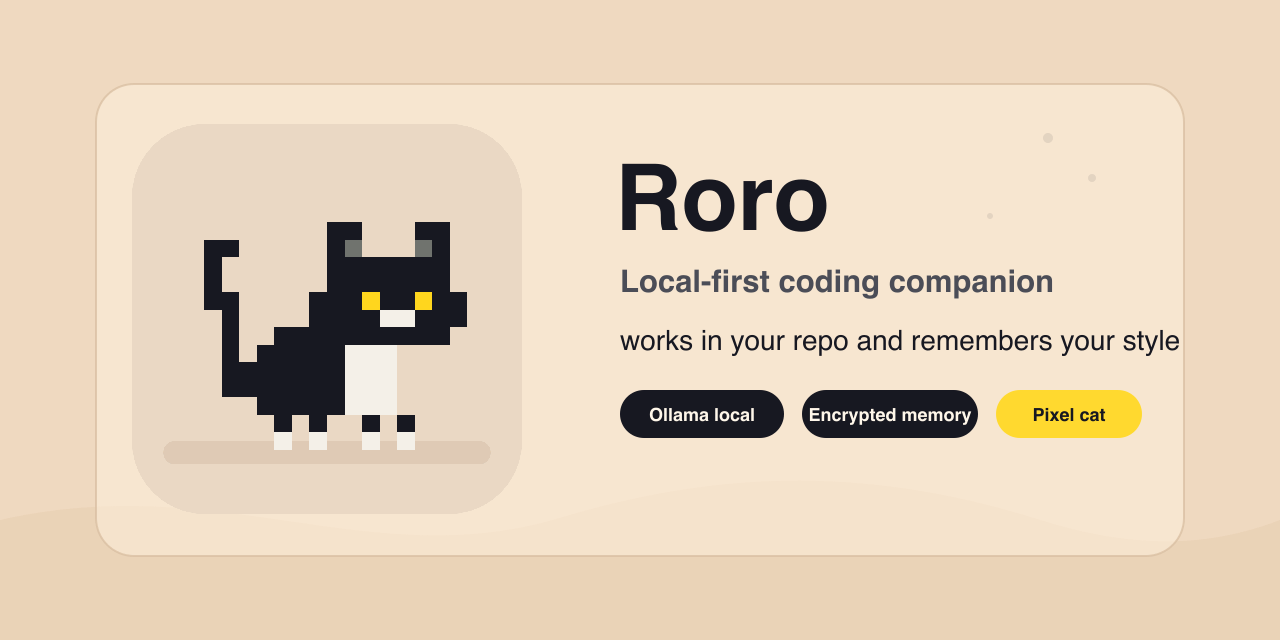
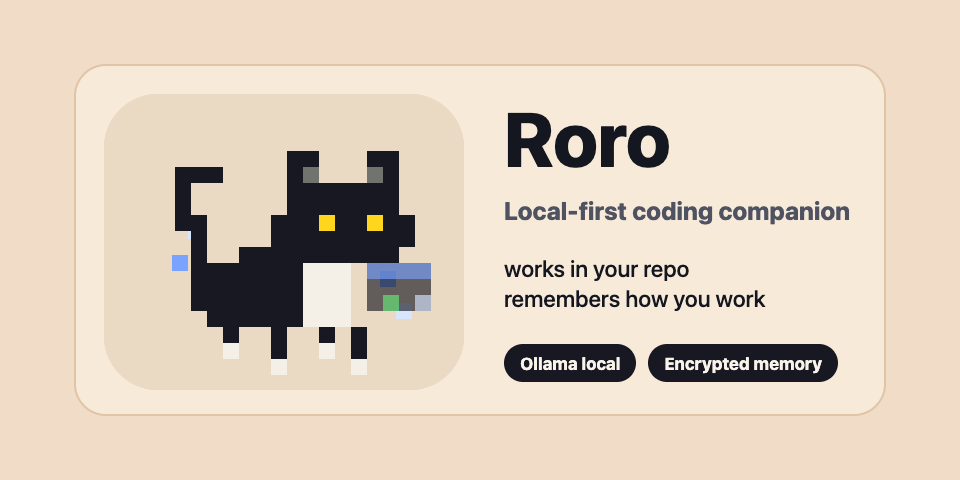
docs: render animated roro preview from app

diff --git a/README.md b/README.md
@@ -1,7 +1,7 @@
 # Roro
 
 <p align="center">
-  <img src="assets/roro-github-preview.png" alt="Roro pixel cat preview: local-first coding companion" width="820">
+  <img src="assets/roro-github-preview.gif" alt="Animated Roro pixel cat preview: local-first coding companion" width="820">
 </p>
 
 **A local-first desktop coding companion that works in your repo and remembers how you work.**